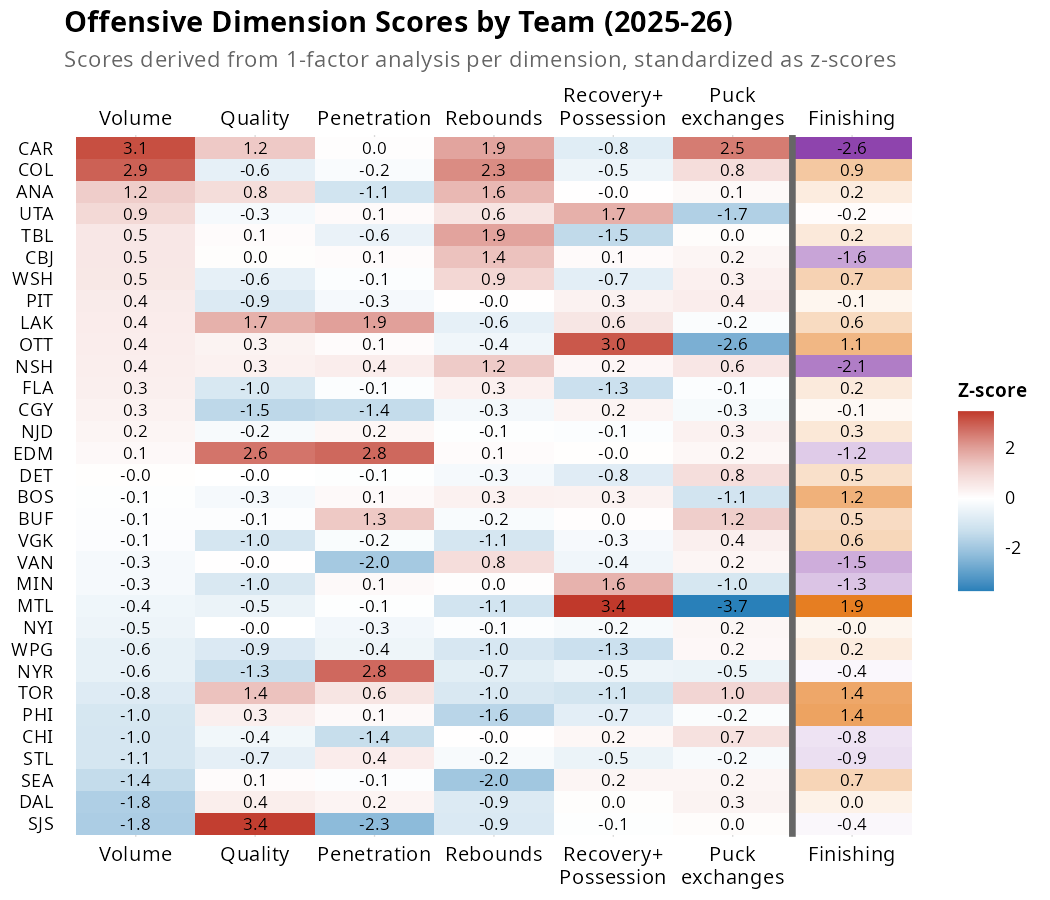
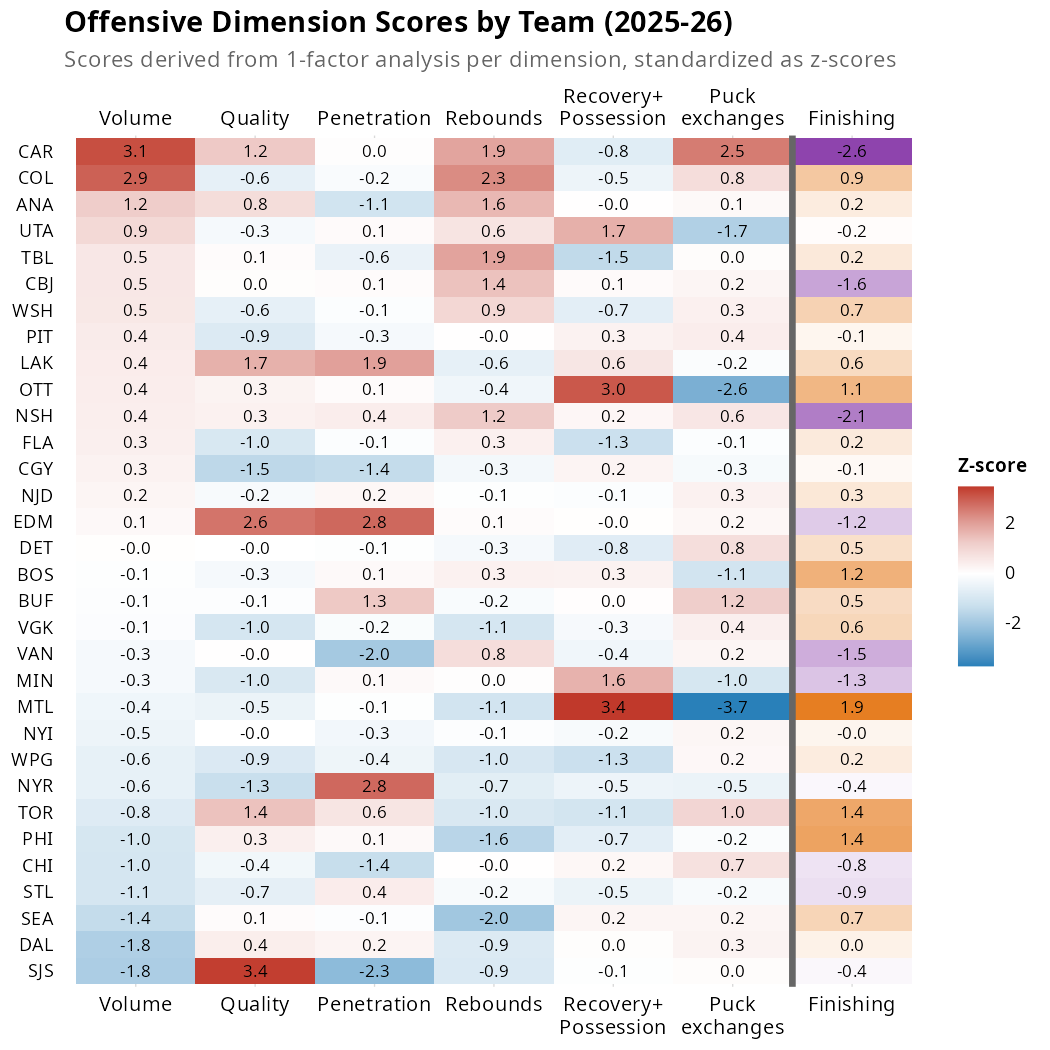
change dimensions of heatmap

diff --git a/README.md b/README.md
@@ -107,7 +107,7 @@ We start with k=6. Below, the dendrogram paired with a heatmap of dimension scor
 
 **What actually drives offensive production?**
 
-We measure success by Goals/60—the purest output metric.
+We measure success by Goals/60, the purest output metric.
 
 ![Goals per 60 by cluster](outputs/figures/figure6_goals_strip.png)
 
